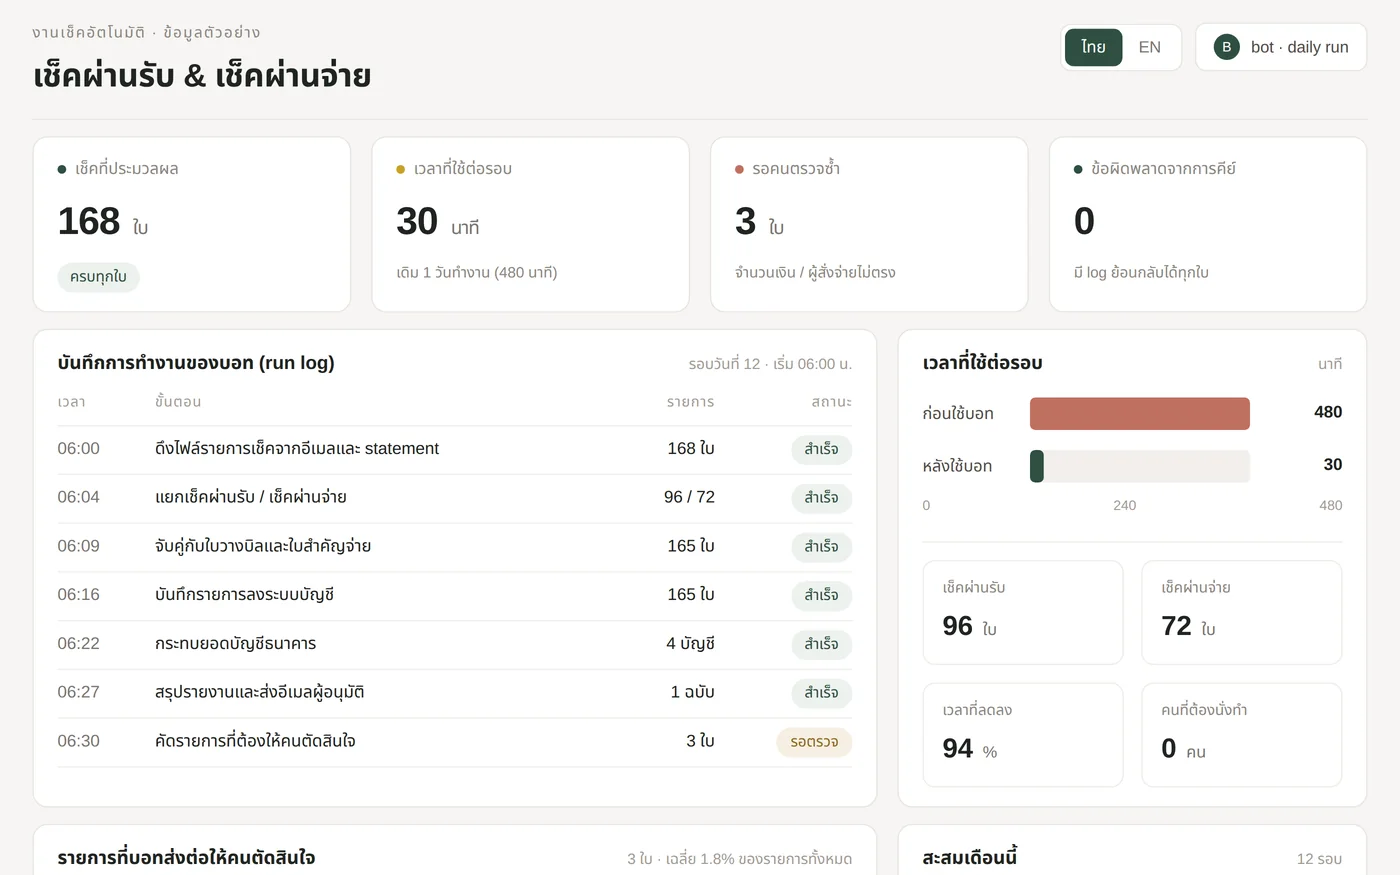
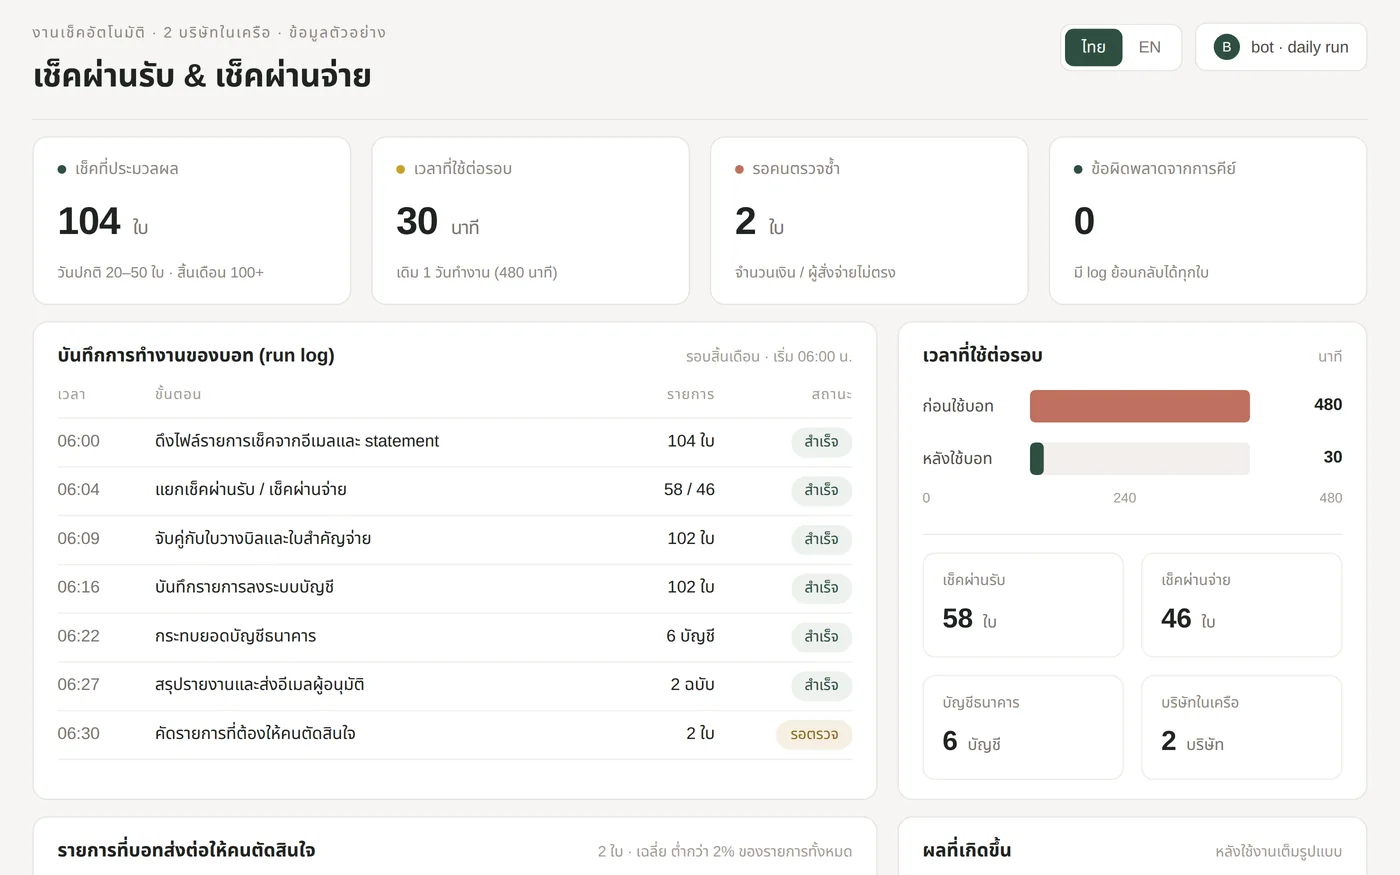
update website 2026-09-21 23:21

diff --git a/tools/mock/case-rpa-cheque.html b/tools/mock/case-rpa-cheque.html
@@ -69,7 +69,7 @@
 
   <div class="top">
     <div>
-      <div class="eyebrow">งานเช็คอัตโนมัติ · ข้อมูลตัวอย่าง</div>
+      <div class="eyebrow">งานเช็คอัตโนมัติ · 2 บริษัทในเครือ · ข้อมูลตัวอย่าง</div>
       <div class="h1">เช็คผ่านรับ &amp; เช็คผ่านจ่าย</div>
     </div>
     <div class="chips">
@@ -82,8 +82,8 @@
   <div class="kpis">
     <div class="card">
       <div class="k-label"><span class="dot" style="background:#2F4F41"></span>เช็คที่ประมวลผล</div>
-      <div class="k-val">168 <small>ใบ</small></div>
-      <div class="k-foot"><span class="pillx">ครบทุกใบ</span></div>
+      <div class="k-val">104 <small>ใบ</small></div>
+      <div class="k-foot">วันปกติ 20–50 ใบ · สิ้นเดือน 100+</div>
     </div>
     <div class="card">
       <div class="k-label"><span class="dot" style="background:#C9A227"></span>เวลาที่ใช้ต่อรอบ</div>
@@ -92,7 +92,7 @@
     </div>
     <div class="card">
       <div class="k-label"><span class="dot" style="background:#C0705F"></span>รอคนตรวจซ้ำ</div>
-      <div class="k-val">3 <small>ใบ</small></div>
+      <div class="k-val">2 <small>ใบ</small></div>
       <div class="k-foot">จำนวนเงิน / ผู้สั่งจ่ายไม่ตรง</div>
     </div>
     <div class="card">
@@ -106,17 +106,17 @@
     <div class="card">
       <div class="p-head">
         <div class="p-title">บันทึกการทำงานของบอท (run log)</div>
-        <div class="p-note">รอบวันที่ 12 · เริ่ม 06:00 น.</div>
+        <div class="p-note">รอบสิ้นเดือน · เริ่ม 06:00 น.</div>
       </div>
       <table>
         <tr><th style="width:78px">เวลา</th><th>ขั้นตอน</th><th class="num" style="width:110px">รายการ</th><th class="num" style="width:110px">สถานะ</th></tr>
-        <tr><td class="t-time">06:00</td><td class="t-step">ดึงไฟล์รายการเช็คจากอีเมลและ statement</td><td class="num">168 ใบ</td><td class="num"><span class="st ok">สำเร็จ</span></td></tr>
-        <tr><td class="t-time">06:04</td><td class="t-step">แยกเช็คผ่านรับ / เช็คผ่านจ่าย</td><td class="num">96 / 72</td><td class="num"><span class="st ok">สำเร็จ</span></td></tr>
-        <tr><td class="t-time">06:09</td><td class="t-step">จับคู่กับใบวางบิลและใบสำคัญจ่าย</td><td class="num">165 ใบ</td><td class="num"><span class="st ok">สำเร็จ</span></td></tr>
-        <tr><td class="t-time">06:16</td><td class="t-step">บันทึกรายการลงระบบบัญชี</td><td class="num">165 ใบ</td><td class="num"><span class="st ok">สำเร็จ</span></td></tr>
-        <tr><td class="t-time">06:22</td><td class="t-step">กระทบยอดบัญชีธนาคาร</td><td class="num">4 บัญชี</td><td class="num"><span class="st ok">สำเร็จ</span></td></tr>
-        <tr><td class="t-time">06:27</td><td class="t-step">สรุปรายงานและส่งอีเมลผู้อนุมัติ</td><td class="num">1 ฉบับ</td><td class="num"><span class="st ok">สำเร็จ</span></td></tr>
-        <tr><td class="t-time">06:30</td><td class="t-step">คัดรายการที่ต้องให้คนตัดสินใจ</td><td class="num">3 ใบ</td><td class="num"><span class="st wait">รอตรวจ</span></td></tr>
+        <tr><td class="t-time">06:00</td><td class="t-step">ดึงไฟล์รายการเช็คจากอีเมลและ statement</td><td class="num">104 ใบ</td><td class="num"><span class="st ok">สำเร็จ</span></td></tr>
+        <tr><td class="t-time">06:04</td><td class="t-step">แยกเช็คผ่านรับ / เช็คผ่านจ่าย</td><td class="num">58 / 46</td><td class="num"><span class="st ok">สำเร็จ</span></td></tr>
+        <tr><td class="t-time">06:09</td><td class="t-step">จับคู่กับใบวางบิลและใบสำคัญจ่าย</td><td class="num">102 ใบ</td><td class="num"><span class="st ok">สำเร็จ</span></td></tr>
+        <tr><td class="t-time">06:16</td><td class="t-step">บันทึกรายการลงระบบบัญชี</td><td class="num">102 ใบ</td><td class="num"><span class="st ok">สำเร็จ</span></td></tr>
+        <tr><td class="t-time">06:22</td><td class="t-step">กระทบยอดบัญชีธนาคาร</td><td class="num">6 บัญชี</td><td class="num"><span class="st ok">สำเร็จ</span></td></tr>
+        <tr><td class="t-time">06:27</td><td class="t-step">สรุปรายงานและส่งอีเมลผู้อนุมัติ</td><td class="num">2 ฉบับ</td><td class="num"><span class="st ok">สำเร็จ</span></td></tr>
+        <tr><td class="t-time">06:30</td><td class="t-step">คัดรายการที่ต้องให้คนตัดสินใจ</td><td class="num">2 ใบ</td><td class="num"><span class="st wait">รอตรวจ</span></td></tr>
       </table>
     </div>
 
@@ -142,19 +142,19 @@
       <div class="split">
         <div class="mini">
           <div class="m-l">เช็คผ่านรับ</div>
-          <div class="m-v">96 <small>ใบ</small></div>
+          <div class="m-v">58 <small>ใบ</small></div>
         </div>
         <div class="mini">
           <div class="m-l">เช็คผ่านจ่าย</div>
-          <div class="m-v">72 <small>ใบ</small></div>
+          <div class="m-v">46 <small>ใบ</small></div>
         </div>
         <div class="mini">
-          <div class="m-l">เวลาที่ลดลง</div>
-          <div class="m-v">94 <small>%</small></div>
+          <div class="m-l">บัญชีธนาคาร</div>
+          <div class="m-v">6 <small>บัญชี</small></div>
         </div>
         <div class="mini">
-          <div class="m-l">คนที่ต้องนั่งทำ</div>
-          <div class="m-v">0 <small>คน</small></div>
+          <div class="m-l">บริษัทในเครือ</div>
+          <div class="m-v">2 <small>บริษัท</small></div>
         </div>
       </div>
     </div>
@@ -164,28 +164,27 @@
     <div class="card">
       <div class="p-head">
         <div class="p-title">รายการที่บอทส่งต่อให้คนตัดสินใจ</div>
-        <div class="p-note">3 ใบ · เฉลี่ย 1.8% ของรายการทั้งหมด</div>
+        <div class="p-note">2 ใบ · เฉลี่ย ต่ำกว่า 2% ของรายการทั้งหมด</div>
       </div>
       <table>
         <tr><th style="width:120px">ประเภท</th><th>เหตุผลที่บอทหยุด</th><th class="num" style="width:130px">มูลค่า (บาท)</th><th class="num" style="width:110px">ผู้รับผิดชอบ</th></tr>
         <tr><td>เช็คผ่านจ่าย</td><td class="t-step">จำนวนเงินไม่ตรงกับใบสำคัญจ่าย</td><td class="num">184,500</td><td class="num">การเงิน</td></tr>
-        <tr><td>เช็คผ่านรับ</td><td class="t-step">ไม่พบใบวางบิลที่จับคู่ได้</td><td class="num">62,300</td><td class="num">บัญชีลูกหนี้</td></tr>
-        <tr style="border-bottom:none"><td>เช็คผ่านจ่าย</td><td class="t-step">ผู้สั่งจ่ายต่างจากที่ระบุในระบบ</td><td class="num">45,000</td><td class="num">การเงิน</td></tr>
+        <tr style="border-bottom:none"><td>เช็คผ่านรับ</td><td class="t-step">ไม่พบใบวางบิลที่จับคู่ได้</td><td class="num">62,300</td><td class="num">บัญชีลูกหนี้</td></tr>
       </table>
     </div>
     <div class="card">
       <div class="p-head">
-        <div class="p-title">สะสมเดือนนี้</div>
-        <div class="p-note">12 รอบ</div>
+        <div class="p-title">ผลที่เกิดขึ้น</div>
+        <div class="p-note">หลังใช้งานเต็มรูปแบบ</div>
       </div>
       <div class="split" style="margin-top:13px">
         <div class="mini">
-          <div class="m-l">เช็คที่บอททำแทน</div>
-          <div class="m-v">1,980 <small>ใบ</small></div>
+          <div class="m-l">ย้ายไปทำงานอื่น</div>
+          <div class="m-v">2 <small>คน</small></div>
         </div>
         <div class="mini">
-          <div class="m-l">เวลาที่คืนให้ทีม</div>
-          <div class="m-v">90 <small>ชม.</small></div>
+          <div class="m-l">เวลาที่ลดลง</div>
+          <div class="m-v">94 <small>%</small></div>
         </div>
       </div>
     </div>

diff --git a/case-studies.html b/case-studies.html
@@ -134,18 +134,18 @@
         <div>
           <p class="pill"><span lang="th">ธุรกิจอาหาร · RPA</span><span lang="en">Food business · RPA</span></p>
           <h2><span lang="th">งานเช็คผ่านรับ–ผ่านจ่าย จาก 1 วันทำงาน เหลือ 30 นาที</span><span lang="en">Cheque clearing cut from a full working day to 30 minutes</span></h2>
-          <p class="card__text" style="margin-top:var(--sp-4)" lang="th">ทุกวันมีเช็คเข้าและเช็คออกหลักร้อยใบ ทีมต้องเปิด statement ธนาคาร ไล่จับคู่กับใบวางบิลและใบสำคัญจ่ายทีละใบ แล้วคีย์เข้าระบบบัญชี งานรอบเดียวกินเวลาเกือบทั้งวันทำการ และต้องมีคนนั่งประกบตลอด</p>
-          <p class="card__text" style="margin-top:var(--sp-4)" lang="en">Hundreds of cheques moved in and out every day. The team opened the bank statement, matched each cheque to a billing note or payment voucher by hand, then keyed it into the accounting system — a full working day of one person's time, every day.</p>
-          <p class="card__text" style="margin-top:var(--sp-4)" lang="th">เราวาง Bot ให้ทำงานรอบเช้าอัตโนมัติ ตั้งแต่ดึงรายการเช็คจากอีเมลและ statement แยกเช็คผ่านรับกับผ่านจ่าย จับคู่เอกสาร บันทึกลงระบบบัญชี ไปจนถึงกระทบยอดบัญชีธนาคารและส่งรายงานให้ผู้อนุมัติ เหลือเฉพาะรายการที่ข้อมูลไม่ตรงกันเท่านั้นที่ส่งต่อให้คนตัดสินใจ พร้อม Log ตรวจสอบย้อนกลับได้ทุกใบ</p>
-          <p class="card__text" style="margin-top:var(--sp-4)" lang="en">A bot now runs the whole cycle each morning: pull the cheque records from email and statements, split receipts from payments, match the documents, post to the ledger, reconcile the bank accounts and email the approver. Only the exceptions reach a person — with a full audit log behind every cheque.</p>
+          <p class="card__text" style="margin-top:var(--sp-4)" lang="th">สองบริษัทในเครือ บัญชีธนาคารรวม 6 บัญชี มีเช็คเข้า–ออกวันละ 20–50 รายการ และพุ่งเกิน 100 รายการต่อวันช่วงสิ้นเดือน ทีมต้องเปิด statement ไล่จับคู่กับใบวางบิลและใบสำคัญจ่ายทีละใบ แล้วคีย์เข้าระบบบัญชี — งานรอบเดียวกินเวลาเกือบทั้งวันทำการ และต้องมีคนนั่งประกบตลอด</p>
+          <p class="card__text" style="margin-top:var(--sp-4)" lang="en">Two affiliated companies, six bank accounts, 20–50 cheques a day and over a hundred at month-end. The team opened each statement, matched every cheque to a billing note or payment voucher by hand, then keyed it into the ledger — most of a working day, every day, with someone always tied to it.</p>
+          <p class="card__text" style="margin-top:var(--sp-4)" lang="th">เราวาง Bot ให้ทำงานรอบเช้าอัตโนมัติ ตั้งแต่ดึงรายการเช็คจากอีเมลและ statement แยกเช็คผ่านรับกับผ่านจ่าย จับคู่เอกสาร บันทึกลงระบบบัญชี ไปจนถึงกระทบยอดบัญชีธนาคารทั้ง 6 บัญชีและส่งรายงานให้ผู้อนุมัติของทั้งสองบริษัท เหลือเฉพาะรายการที่ข้อมูลไม่ตรงกันเท่านั้นที่ส่งต่อให้คนตัดสินใจ พร้อม Log ตรวจสอบย้อนกลับได้ทุกใบ เวลาต่อรอบลดลง 94% และพนักงานบัญชี 2 คนย้ายไปทำงานที่สร้างมูลค่ามากกว่า</p>
+          <p class="card__text" style="margin-top:var(--sp-4)" lang="en">A bot now runs the whole cycle each morning: pull the cheque records from email and statements, split receipts from payments, match the documents, post to the ledger, reconcile all six bank accounts and email the approver at each company. Only exceptions reach a person, and every cheque carries an audit log. Cycle time fell 94%, and two accountants moved on to higher-value work.</p>
           <div class="stat-row">
             <div>
               <p class="stat stat--md">30 <span class="stat__unit"><span lang="th">นาที</span><span lang="en">min</span></span></p>
               <p class="metric__caption"><span lang="th">เวลาต่อรอบ จากเดิม 1 วันทำงาน</span><span lang="en">Per run, down from a full day</span></p>
             </div>
             <div>
-              <p class="stat stat--md">94 <span class="stat__unit">%</span></p>
-              <p class="metric__caption"><span lang="th">เวลาที่ลดลง</span><span lang="en">Processing time removed</span></p>
+              <p class="stat stat--md">2 <span class="stat__unit"><span lang="th">คน</span><span lang="en">people</span></span></p>
+              <p class="metric__caption"><span lang="th">พนักงานบัญชีที่ย้ายไปงานอื่น</span><span lang="en">Accountants freed for other work</span></p>
             </div>
           </div>
         </div>

diff --git a/CLAUDE.md b/CLAUDE.md
@@ -533,16 +533,28 @@ python -m http.server 8000     # เปิด http://localhost:8000 ดูด้
 - [ ] **ตัวเลขใน case studies** — ยืนยันว่าเปิดเผยต่อสาธารณะได้ ไม่ผิด NDA
 - [x] ~~Case study "RPA เช็คผ่านรับ–ผ่านจ่าย"~~ — **เสร็จแล้ว ก.ย. 2569**
       ขึ้นเป็นการ์ดที่ 4 ใน `case-studies.html` (ต่อจากการ์ด RPA เดิม ก่อนการ์ดงานอบรม)
-      ตัวเลขจากเจ้าของ: **1 วันทำงาน → 30 นาที** (= ลดลง 94%) ลูกค้าคือ หจก. บางกอกนิวสยามฟู๊ด
-      แต่การ์ดเขียนว่า "ธุรกิจอาหาร" ตามกติกา §SKILL 1 (ไม่ระบุชื่อลูกค้าในเนื้อหา case study)
-- [ ] **ตัวเลขรองในการ์ด RPA เช็ค — ยังเป็นตัวเลขสมมติ** ⚠
-      เจ้าของให้มาแค่ "1 วัน → 30 นาที" ตัวเลขอื่นในรูป `case-rpa-cheque.webp`
-      (168 ใบ/วัน · 96 รับ / 72 จ่าย · 3 ใบรอตรวจ · 4 บัญชีธนาคาร · 1,980 ใบ/เดือน · 90 ชม./เดือน)
-      **เป็นตัวเลขตัวอย่างที่ตั้งขึ้นเพื่อให้ภาพ mock ดูสมจริง ไม่ใช่ข้อมูลลูกค้าจริง**
-      ในรูปจึงมีคำว่า "ข้อมูลตัวอย่าง" กำกับที่หัวมุมซ้ายบน — **ห้ามลบคำนี้**
-      ถ้าได้ตัวเลขจริงจากลูกค้าเมื่อไหร่ ให้แก้ในไฟล์ต้นฉบับแล้ว render ใหม่ (ดู §5 ตารางรูป mock)
+      ลูกค้าคือ หจก. บางกอกนิวสยามฟู๊ด แต่การ์ดเขียนว่า "ธุรกิจอาหาร" ตามกติกา §SKILL 1
+      (ไม่ระบุชื่อลูกค้าในเนื้อหา case study)
+
+      **ตัวเลขจริงที่เจ้าของยืนยันแล้ว — ใช้ได้ ห้ามเปลี่ยนเอง**
+
+      | ตัวเลข | ค่า |
+      |---|---|
+      | เวลาต่อรอบ | 1 วันทำงาน → **30 นาที** (= ลดลง 94%) |
+      | ขอบเขต | **2 บริษัทในเครือ · 6 บัญชีธนาคาร** |
+      | ปริมาณ | วันปกติ **20–50 รายการ/วัน** · สิ้นเดือน **100+ รายการ/วัน** |
+      | คน | พนักงานบัญชี **2 คน** ย้ายไปทำงานอื่น (ไม่ใช่เลิกจ้าง — เขียนให้ตรงเสมอ) |
+
+      ตัวเลขที่ยัง **สมมติ** อยู่ในรูป mock: จำนวนรายการรอตรวจ (2 ใบ) มูลค่าในตารางรายการค้าง
+      และสัดส่วนผ่านรับ/ผ่านจ่าย 58/46 — จึงยังต้องคงคำว่า **"ข้อมูลตัวอย่าง"** ไว้ที่หัวรูป **ห้ามลบ**
 - [x] ~~Case study งานอบรม "การเงินสำหรับผู้บริหาร"~~ — **เสร็จแล้ว ก.ย. 2569**
-      ขึ้นเป็นการ์ดที่ 4 ใน `case-studies.html` ตัวเลขจริงจากเจ้าของ: ผู้เข้าอบรม 24 คน · เต็มวัน 9.00–16.00 น. · คะแนนประเมิน 4.7/5
+      ขึ้นเป็นการ์ดที่ 4 ใน `case-studies.html` ตัวเลขจริงจากเจ้าของ: ผู้เข้าอบรม 24 คน · เต็มวัน 9.00–16.00 น. · **คะแนนเฉลี่ยด้านวิทยากร 4.48/5 (ระดับ "มาก")**
+      ⚠ **เคยเขียน 4.7 — ผิด แก้แล้ว ก.ย. 2569** ใบประเมินทางการของ FutureSkill ("ผลการประเมินความพึงพอใจ ด้านวิทยากร")
+      ระบุค่าเฉลี่ยรวม **4.48** เจ้าของเลือกใช้เลขตามเอกสาร **ห้ามปัดขึ้นเป็น 4.5 หรือกลับไปใช้ 4.7**
+      คะแนนรายหัวข้อ (9 ข้อ): 4.42 · 4.46 · 4.46 · 4.42 · 4.50 · 4.54 · 4.54 · 4.38 · 4.63
+      ข้อ 9 (4.63) ในเอกสารต้นฉบับชื่อหัวข้อซ้ำกับข้อ 1 น่าจะพิมพ์ผิดฝั่ง FutureSkill — **จึงไม่ยกข้อ 9 ขึ้นเว็บ**
+      การ์ดจึงอ้างแค่ "ทุกข้อไม่ต่ำกว่า 4.38" + หัวข้อสูงสุดที่ชื่อชัด (4.54 ×2, 4.50)
+      ไม่เอารูปสไลด์ของ FutureSkill ขึ้นเว็บตรง ๆ (เป็นเอกสารแบรนด์ของเขา) — ถ้าจะใช้ต้องขออนุญาตก่อน
       รูป `assets/img/case-training-pat.webp` แปลงจากไฟล์ RAW (.DNG) ต้นฉบับ ครอป 16:10 กว้าง 1400 quality 82
 
 - [ ] **ขออนุญาตระบุชื่อลูกค้างานอบรม** — งานนี้คือ **การท่าเรือแห่งประเทศไทย ร่วมกับ FutureSkill**
